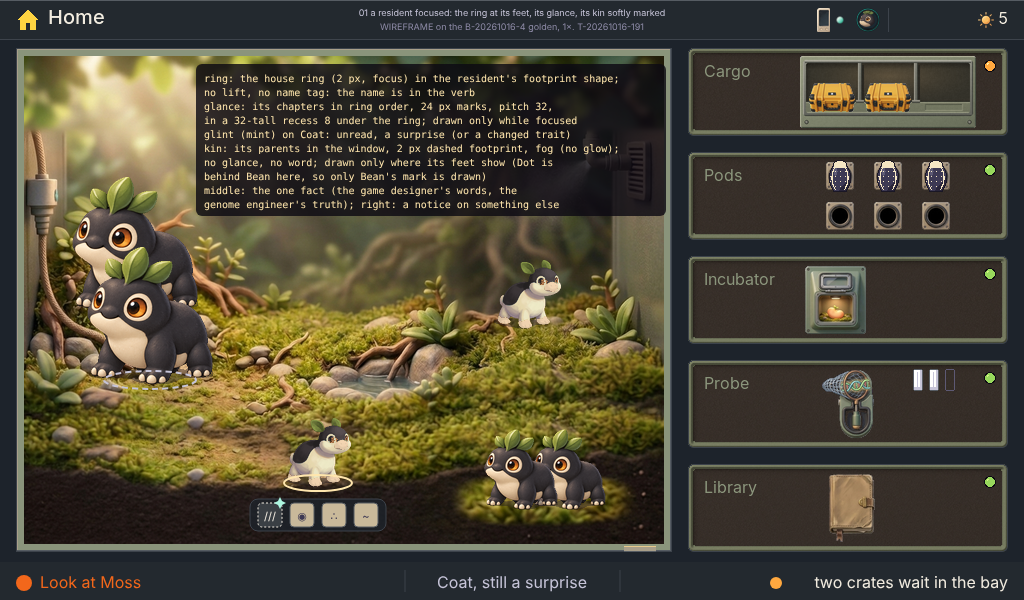
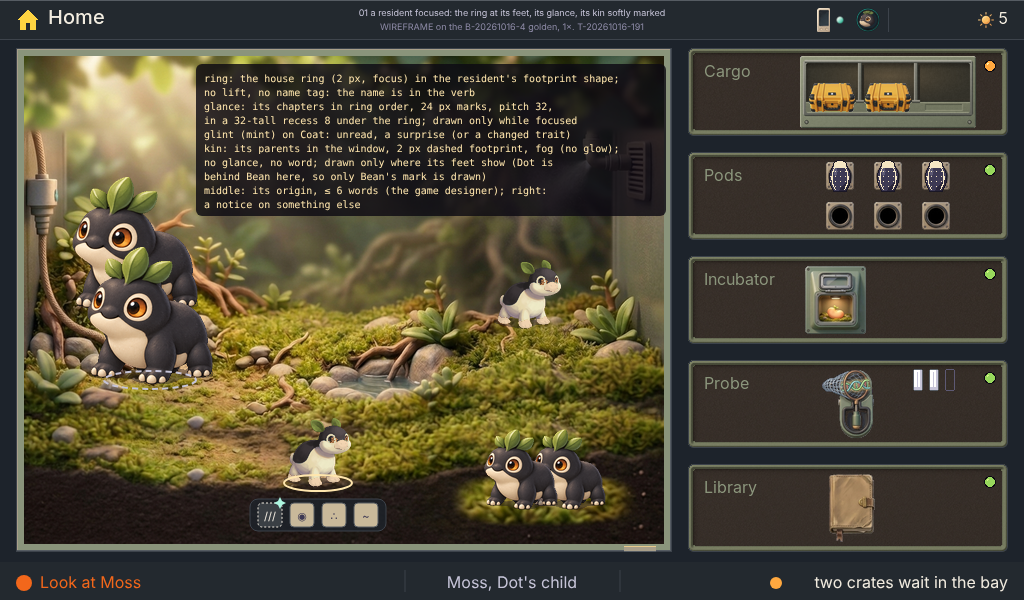
T-20261016-191: fold in the origin line; middle-slot width

Changed region(s): [[0.2188, 0.3, 0.5312, 0.36], [0.4375, 0.96, 0.5625, 0.99]]

diff --git a/results/T-20261016-191/ui-ux.md b/results/T-20261016-191/ui-ux.md
@@ -68,8 +68,20 @@ The ring is one ring everywhere. Its shape follows the object's own outline (`06
 | Slot | Holds |
 | --- | --- |
 | left | ✓ **Look at {name}** (today's verb; the name lives here) |
-| middle | the one fact about this mibi. Which fact and its words are the game designer's; its truth is the genome engineer's. The wireframes use the card's own "Coat, still a surprise" and two placeholders |
+| middle | its origin, in at most six words (the game designer, `results/T-20261016-191/game-designer.md`): "Dot, child of Moss and Fig" or "Pip, from a pond pod". An open event replaces it until visited ("Moss has grown up") |
 | right | a notice only when it is about something other than ✓ (the T-186 slot rule); otherwise the player's thread |
+
+**The width of the middle slot.** The subject zone is 208 wide (`frame.json regions.subject`, 408 to 616, 16 px). I measured the lines in the wireframe font:
+
+| Line | Width |
+| --- | --- |
+| "Moss, child of Dot and Bean" | 213: over, so the fallback applies |
+| "Dot, child of Moss and Fig" | 197 |
+| "Pip, from a rock field pod" | 191 |
+
+Two four-letter parents already use the whole slot, so the fallback ("Moss, Dot's child", as in `01` and `05`) will fire often. The build measures the real font.
+
+**A proposal to the game designer:** drop the name from the context line. The verb already says it ("Look at Moss"), so the bottom line says the name twice. "child of Dot and Bean" (about 160) always fits and keeps both parents.
 
 ## 5. ✓ goes down
 
@@ -95,7 +107,7 @@ Judge it in the device sheet with `01`, `04` and `05` side by side.
 
 ## 8. Asks to the other owners
 
-- **The game designer:** which single fact goes in the middle slot, and its words (≤ 8). Also whether a changed trait outranks an unread chapter when both apply.
+- **The game designer:** answered (the origin line). One open question: whether the line drops the name, since the verb already carries it (§4).
 - **The genome engineer:**
   - That "changed since last looked" can be known per mibi and per chapter (it needs a seen mark).
   - The kin relations to show.
